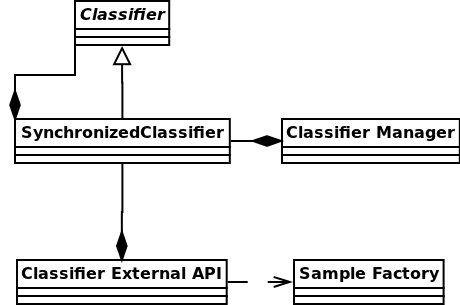
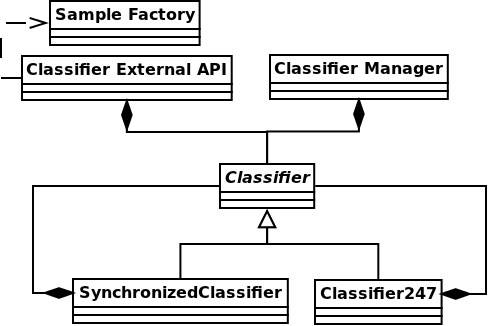
Added Classifier247

Changed region(s): [[0.0, 0.0, 1.0, 1.0]]

diff --git a/docs/components.rst b/docs/components.rst
@@ -275,8 +275,8 @@ Important notes
 ~~~~~~~~~~~~~~~
 It should be implemented so that we could run multiple classify methods at the same time (thread-safety).
 
-SynchronisedClassifier
-~~~~~~~~~~~~~~~~~~~~~~
+SynchronisedClassifier (optional due to Classifier247)
+~~~~~~~~~~~~~~~~~~~~~~~~~~~~~~~~~~~~~~~~~~~~~~~~~~~~~~
 This class will be a wrapper around Classifier to make it synchronized in read/write kind:
 
 - many calls can be done on *classify* methods at the same time
@@ -289,6 +289,19 @@ It should work that way:
 - do *train* and be gone
 
 Optionally we could prioritize *train* to always push it to be done before any *classify* but this shouldn't be needed and could lead to starvation of *classify*
+
+
+Classifier247
+~~~~~~~~~~~~~
+
+This classifier has two inner classifiers. Always one of them is providing methods related to classification. When trained we train this backup classifier and when ready it will be swapped with the one that is responsible for classification.
+
+
+Notes:
+
+- It must have lock on training classifier (we protect data, not methods).
+- there is a lock on classification classifier with model readers-writer - writer does only swapping between classifiers
+
 
 
 ClassifierExternalApi
